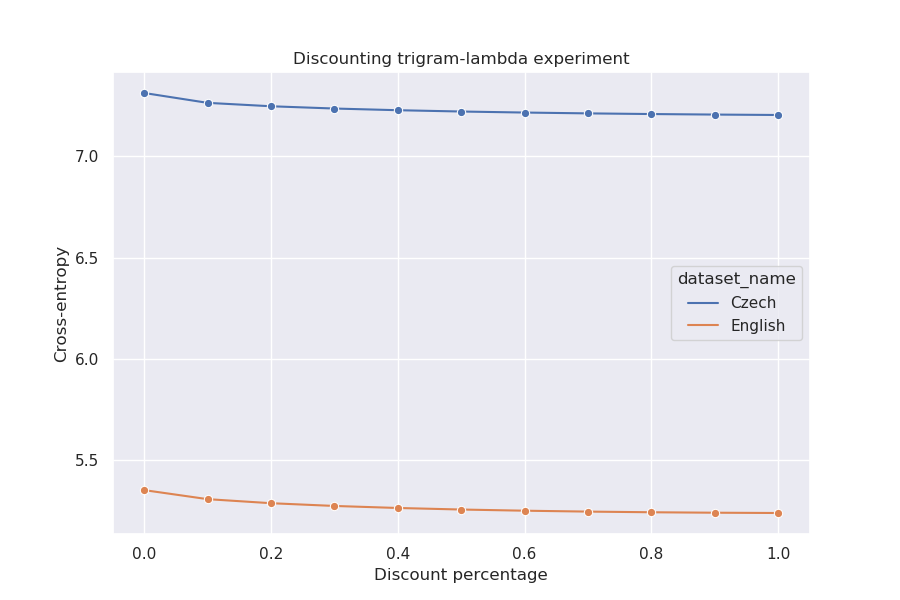
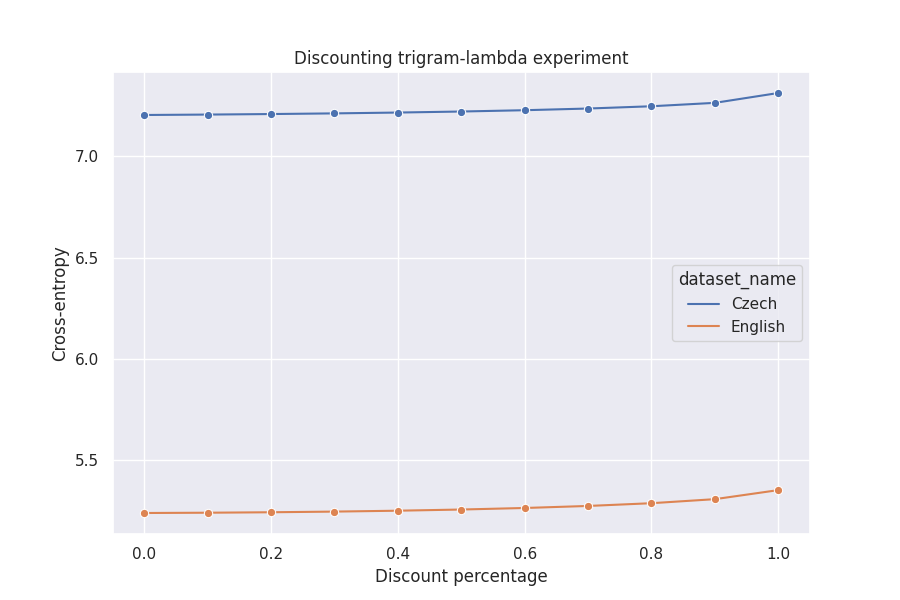
stat hw1 readme

diff --git a/2021-zs/stat_nlp/hw_1/lang_smoothing.py b/2021-zs/stat_nlp/hw_1/lang_smoothing.py
@@ -49,7 +49,7 @@ def decrease_lambdas_experiment(model, test_data, dataset_name):
 
     for discount in [0, 0.1, 0.2, 0.3, 0.4, 0.5, 0.6, 0.7, 0.8, 0.9, 1]:
         # add boost-percents of the difference between the trigram lambda and 1.0 to it
-        model.lambdas[3] = original_lambdas[3]*discount 
+        model.lambdas[3] = original_lambdas[3]*(1-discount)
 
         # scale remaining lambdas, such that the sum of all lambdas is 1.0
         remaining_budget = 1.0 - model.lambdas[3]

diff --git a/2021-zs/stat_nlp/hw_1/language_smoothing.md b/2021-zs/stat_nlp/hw_1/language_smoothing.md
@@ -40,7 +40,7 @@ Attach your source code commented in such a way that it is sufficient to read th
 ### Fitting the wrong dataset
 If we (by mistake) were to optimize the lambda parameters for the training dataset (the one, which we used to learn the $p_i(w | h)$), then it is optimal for the highest-order ngram term to be `1.0` and for the remaining parameters to be `0`. That is what we actually observe in practice.
 
-We used the **TEXTCZ1** trainset to estimate the $p_i(w | h)$ and ran the EM algorithm on it again.
+We demonstrate this by using the **TEXTCZ1** train set (instead of the held-out set) to estimate the $p_i(w | h)$ in the EM algorithm.
 Just after 10 iterations of the EM algorithm the $l_3$ was 0.99998.
 This is obviously undesirable behavior, as we aren't using the information from the lower-order ngram models.
 
@@ -60,11 +60,13 @@ Initial lambdas: 0.25, 0.25, 0.25, 0.25
 Test cross-entropy: 33.82484666483367
 ```
 
-We see that the testset cross-entropy is ridiculously high (33.8) as a result, because the testset contains trigrams (bigrams, unigrams) unseen in the trainset and the lower-order lambdas are almost zero.
+When we evaluate the model on the test set, we get a ridiculously high cross-entropy (33.8) as a result, because the test set contains trigrams (bigrams, unigrams) unseen in the train set and the lower-order lambdas are almost zero.
+
+The unsmoothed model, that uses only $l_3$, basicallly overfits the training set, and introducing the smoothing lower-order terms adjusted according to the heldout dataset is a form of regularization.
 
 
 ### Fitting the heldout dataset
-Now we use the heldout dataset to learn the lambda parameters.
+Now we (correctly) use the heldout dataset to learn the lambda parameters.
 
 The stopping criteria parameter epsilon was set to `0.0001`.
 
@@ -108,11 +110,15 @@ Initial lambdas: 0.25, 0.25, 0.25, 0.25
 Test cross-entropy: 5.240459086269674
 ```
 
+We can see, that the test cross-entropy is now much lower and much closer to the entropy we got in the part 1 of this assignment.
+
 
 ## Boosting/Discounting $l_3$
 
 
 ### Boosting $l_3$
+
+In this experiment, we gradually increase the proportion of the trigram lambda $l_3$
 
 |$l_3$ boost factor| cross entropy (English) | cross entropy (Czech)|
 |-|-|-|
@@ -132,25 +138,31 @@ Test cross-entropy: 5.240459086269674
 ![](results/boost_experiment.png)
 
 
+We see, that by artificially boosting the role of $l_3$ in the model, the test set entropy goes sharply up. We are in a sense over-fitting the train set more and more, at the cost of increasing test set entropy loss. The test set is poorly covered by the train set trigrams - around 35% for English and less than 20% for Czech, so boosting the $l_3$ term worsens the test entropy, especially for higher boost percentage values.
+
 
 ### Discounting $l_3$
+
+Here we do the opposite - we gradually decrease the role of the trigrams in the final smoothed model.
+
 |$l_3$ discount factor|cross entropy (English)| cross entropy (Czech)|
 |-|-|-|
-0.00|5.353379|7.313069
-0.10|5.308765|7.264454
-0.20|5.288799|7.247634
-0.30|5.275226|7.236428
-0.40|5.265216|7.228127
-0.50|5.257608|7.221690
-0.60|5.251785|7.216586
-0.70|5.247372|7.212497
-0.80|5.244122|7.209220
-0.90|5.241860|7.206610
-1.00|5.240459|7.204565
+0.00| 5.240459	| 7.204565
+0.10| 5.241860	| 7.206610
+0.20| 5.244122	| 7.209220
+0.30| 5.247372	| 7.212497
+0.40| 5.251785	| 7.216586
+0.50| 5.257608	| 7.221690
+0.60| 5.265216	| 7.228127
+0.70| 5.275226	| 7.236428
+0.80| 5.288799	| 7.247634
+0.90| 5.308765	| 7.264454
+1.00| 5.353379	| 7.313069
 
 ![](results/discount_experiment.png)
 
+As the trigram train-test coverage is low for both languages, the test entropy gets only slightly worse by discarding the trigram information.
 
 ## Coverage graph
-Percentage of the test n
+
 ![](results/coverage.png)

diff --git a/2021-zs/stat_nlp/hw_1/entropy.md b/2021-zs/stat_nlp/hw_1/entropy.md
@@ -108,7 +108,7 @@ When we introduce character-level noise, we will in many instances create new, g
 In the case of word-level noise the situation is not that clear. We have two effect going aginst each other. Introducing random words has equalizing effect on the distribution, which should increase entropy. But it may also happen, that we lose many of the words occuring only once in the process, decreasing the vocabulary size and lowering the entropy.
 
 For English, the equalizing effect dominates, because it doesn't have that many words occuring only once, so the overall entropy increases. 
-On the other hand, Czech has many words occuring only once in the original dataset, so it looses much more unique words by the random word swap, which ultimately results in the overall increase of entropy.
+On the other hand, Czech has many words occuring only once in the original dataset, so it looses much more unique words by the random word swap, which probably ultimately results in the overall increase of entropy.
 
 
 # Theoretical paper-and-pencil excercise (part 2)
